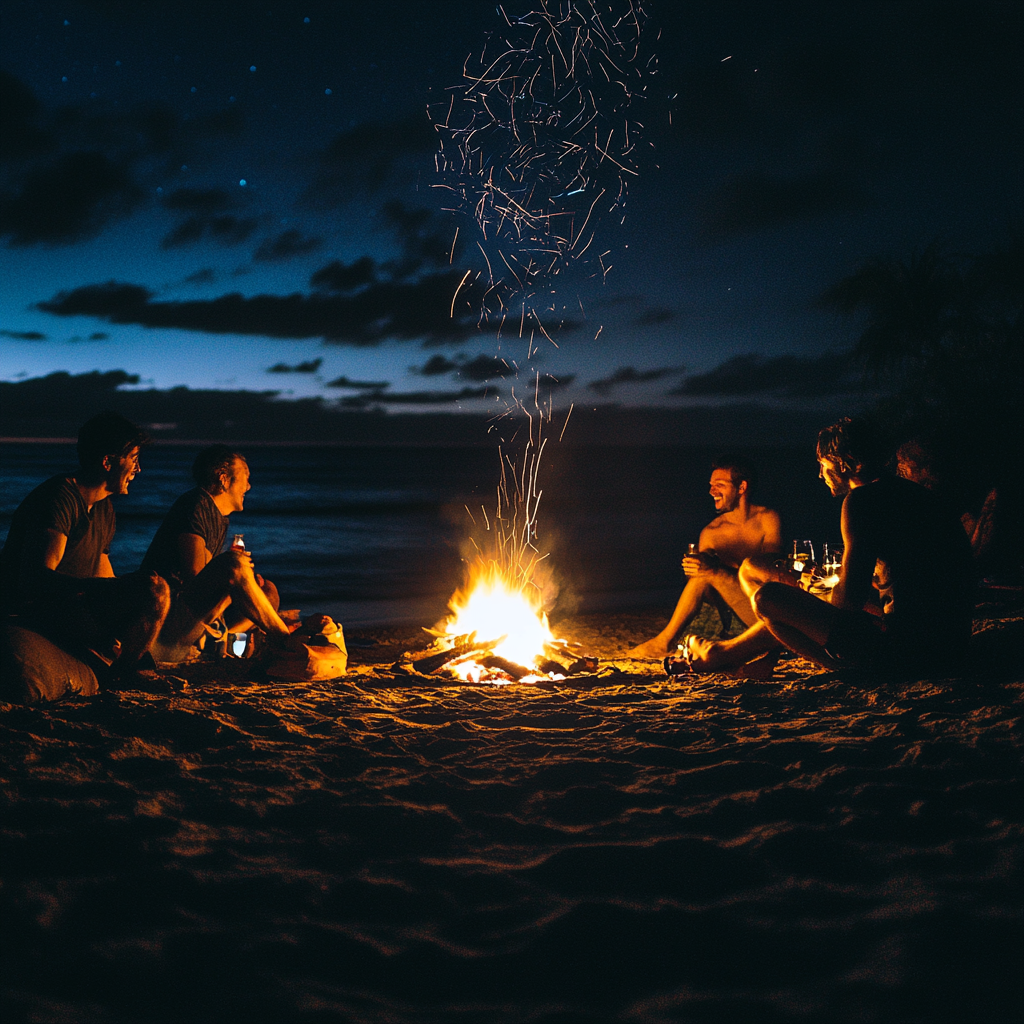
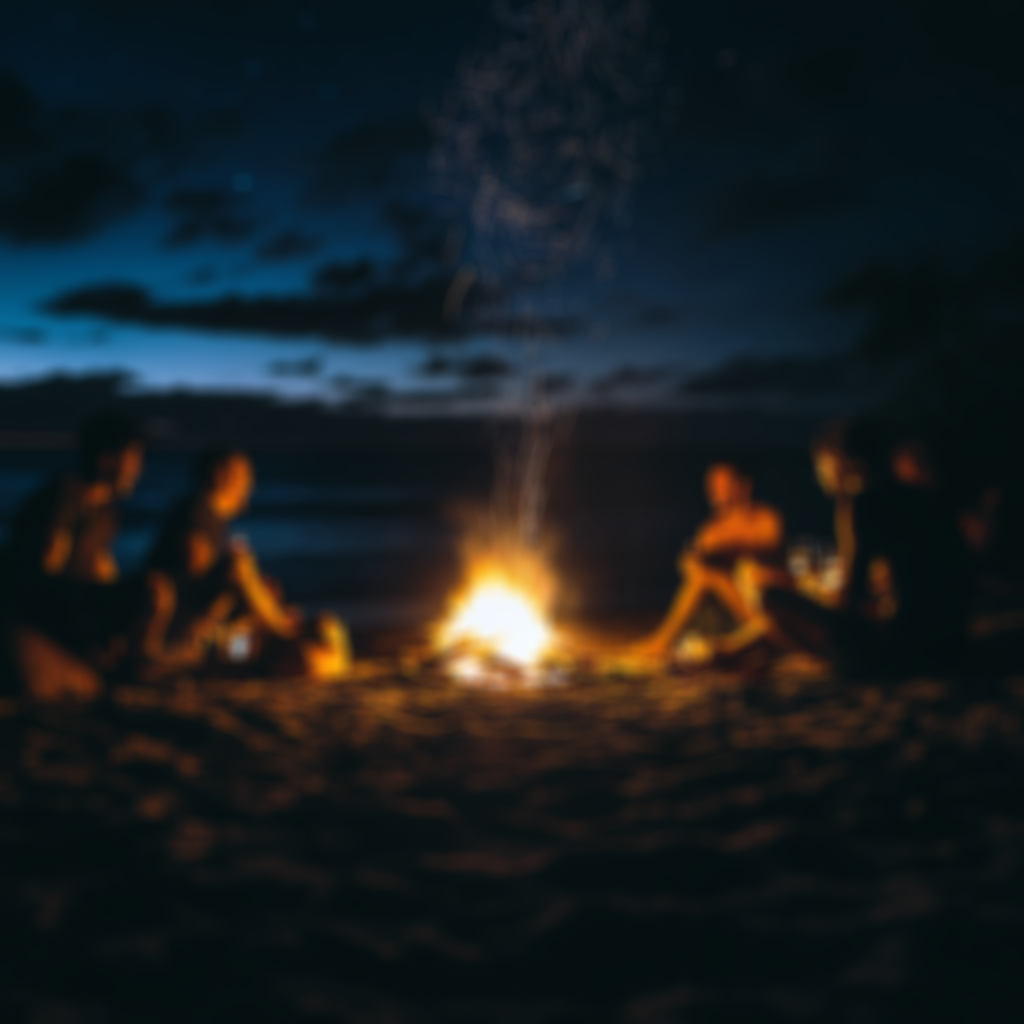
hero blur

diff --git a/css/styles.css b/css/styles.css
@@ -94,7 +94,7 @@ h1,h2,h3,h4,h5,h6 {
 
 /* Hero section */
 .hero {
-    background-image: linear-gradient(rgba(0, 0, 0, 0.5), rgba(0, 0, 0, 0.5)), url('/api/placeholder/800/400');
+    background-image: linear-gradient(rgba(0, 0, 0, 0.5), rgba(0, 0, 0, 0.5)), url('index.png');
     background-size: cover;
     background-position: center;
     color: white;
